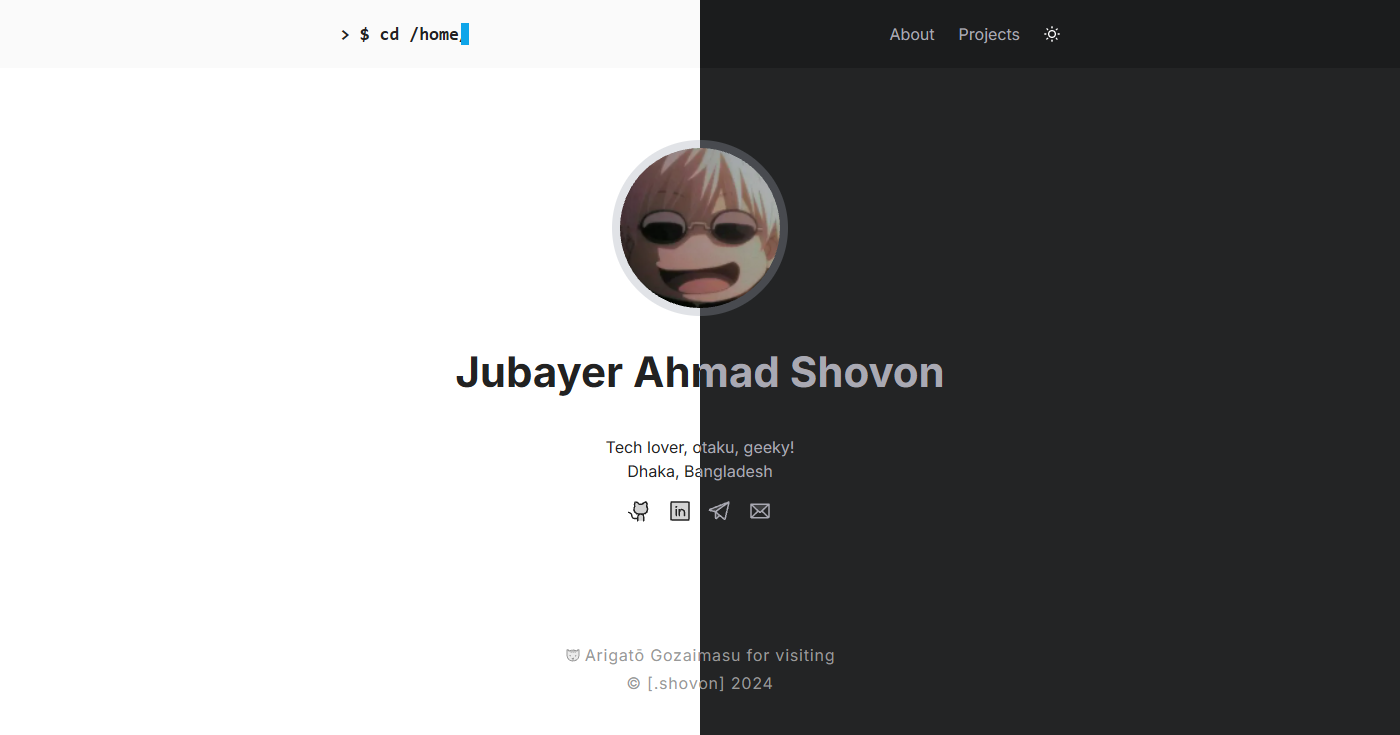
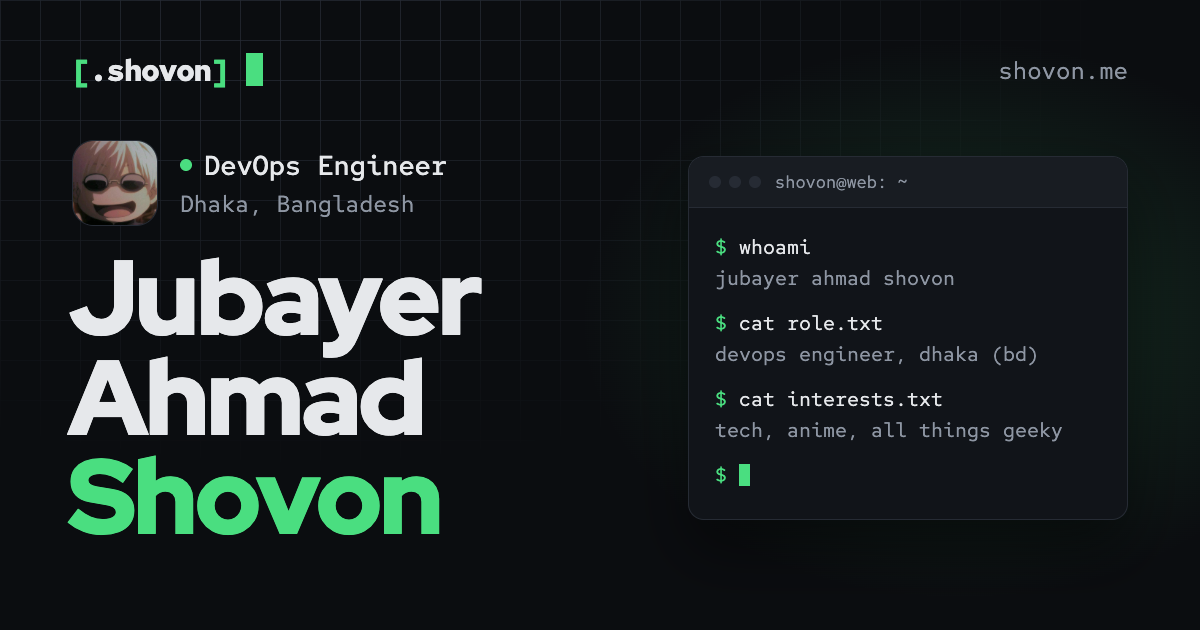
feat: replace the link preview image with a purpose-built card
The old image was a screenshot of the previous design. The new one is
a 1200x630 card in the current look: the [.shovon] mark, avatar, role
and location, the name with the green accent, and a terminal window.

It is rendered from design/og-image.html with headless Chrome; the
command is documented at the top of that file and in the README, so
the image can be regenerated after a design change.

diff --git a/design/og-image.html b/design/og-image.html
@@ -1,0 +1,228 @@
+<!doctype html>
+<!--
+  Source of src/assets/images/og-image.png, the 1200x630 image shown in link previews.
+
+  To regenerate it after editing this file, run a Chromium-based browser from the repository root:
+
+    chrome --headless --hide-scrollbars --window-size=1200,630 --virtual-time-budget=5000 \
+      --screenshot=src/assets/images/og-image.png design/og-image.html
+
+  The colors mirror the dark theme in src/styles/global.css.
+-->
+<html lang="en">
+  <head>
+    <meta charset="utf-8" />
+    <title>[.shovon] link preview image</title>
+    <link rel="stylesheet" href="https://fonts.googleapis.com/css2?family=Red+Hat+Display:wght@900&family=Red+Hat+Mono:wght@400;500;700&display=block" />
+    <style>
+      :root {
+        --bg: #0b0d10;
+        --surface: #111419;
+        --raised: #181c22;
+        --line: #262b34;
+        --fg: #e6e8eb;
+        --muted: #8e96a3;
+        --faint: #606774;
+        --accent: #4ade80;
+      }
+
+      * {
+        box-sizing: border-box;
+        margin: 0;
+      }
+
+      html,
+      body {
+        width: 1200px;
+        height: 630px;
+        overflow: hidden;
+      }
+
+      body {
+        position: relative;
+        background: var(--bg);
+        color: var(--fg);
+        font-family: 'Red Hat Mono', monospace;
+      }
+
+      .grid {
+        position: absolute;
+        inset: 0;
+        background-image:
+          linear-gradient(rgb(38 43 52 / 0.75) 1px, transparent 1px),
+          linear-gradient(90deg, rgb(38 43 52 / 0.75) 1px, transparent 1px);
+        background-size: 40px 40px;
+        mask-image: radial-gradient(ellipse 85% 95% at 25% 0%, #000 15%, transparent 78%);
+      }
+
+      .glow {
+        position: absolute;
+        top: 40px;
+        right: -140px;
+        width: 760px;
+        height: 560px;
+        background: radial-gradient(closest-side, rgb(74 222 128 / 0.17), transparent);
+      }
+
+      .accent {
+        color: var(--accent);
+      }
+
+      .caret {
+        display: inline-block;
+        width: 0.55em;
+        height: 1.1em;
+        background: var(--accent);
+        vertical-align: -0.18em;
+      }
+
+      .bar {
+        position: absolute;
+        top: 50px;
+        right: 72px;
+        left: 72px;
+        display: flex;
+        align-items: center;
+        justify-content: space-between;
+        font-size: 24px;
+        color: var(--muted);
+      }
+
+      .mark {
+        font-size: 30px;
+        font-weight: 700;
+        letter-spacing: -0.02em;
+        color: var(--fg);
+      }
+
+      .who {
+        position: absolute;
+        top: 140px;
+        left: 72px;
+        display: flex;
+        align-items: center;
+        gap: 22px;
+      }
+
+      .who img {
+        width: 86px;
+        height: 86px;
+        border: 1px solid var(--line);
+        border-radius: 22px;
+      }
+
+      .role {
+        display: flex;
+        align-items: center;
+        gap: 12px;
+        font-size: 27px;
+        font-weight: 500;
+      }
+
+      .role i {
+        width: 12px;
+        height: 12px;
+        border-radius: 50%;
+        background: var(--accent);
+      }
+
+      .place {
+        margin-top: 6px;
+        font-size: 23px;
+        color: var(--muted);
+      }
+
+      h1 {
+        position: absolute;
+        top: 248px;
+        left: 68px;
+        font: 900 106px/0.94 'Red Hat Display', sans-serif;
+        letter-spacing: -0.03em;
+      }
+
+      .terminal {
+        position: absolute;
+        top: 156px;
+        right: 72px;
+        width: 440px;
+        overflow: hidden;
+        border: 1px solid var(--line);
+        border-radius: 16px;
+        background: var(--surface);
+        box-shadow: 0 30px 60px rgb(0 0 0 / 0.45);
+      }
+
+      .terminal header {
+        display: flex;
+        align-items: center;
+        gap: 14px;
+        padding: 14px 20px;
+        border-bottom: 1px solid var(--line);
+        background: var(--raised);
+        font-size: 17px;
+        color: var(--muted);
+      }
+
+      .terminal header span {
+        display: flex;
+        gap: 8px;
+      }
+
+      .terminal header i {
+        width: 12px;
+        height: 12px;
+        border-radius: 50%;
+        background: var(--line);
+      }
+
+      .terminal div {
+        padding: 24px 26px 28px;
+        font-size: 20px;
+        line-height: 1.55;
+      }
+
+      .terminal p + p.cmd {
+        margin-top: 14px;
+      }
+
+      .terminal p:not(.cmd) {
+        color: var(--muted);
+      }
+    </style>
+  </head>
+  <body>
+    <div class="grid"></div>
+    <div class="glow"></div>
+
+    <div class="bar">
+      <span class="mark"><span class="accent">[</span>.shovon<span class="accent">]</span> <span class="caret"></span></span>
+      <span>shovon.me</span>
+    </div>
+
+    <div class="who">
+      <img src="../src/assets/images/61104583.jpg" alt="" />
+      <div>
+        <p class="role"><i></i>DevOps Engineer</p>
+        <p class="place">Dhaka, Bangladesh</p>
+      </div>
+    </div>
+
+    <h1>Jubayer<br />Ahmad<br /><span class="accent">Shovon</span></h1>
+
+    <section class="terminal">
+      <header>
+        <span><i></i><i></i><i></i></span>
+        shovon@web: ~
+      </header>
+      <div>
+        <p class="cmd"><span class="accent">$</span> whoami</p>
+        <p>jubayer ahmad shovon</p>
+        <p class="cmd"><span class="accent">$</span> cat role.txt</p>
+        <p>devops engineer, dhaka (bd)</p>
+        <p class="cmd"><span class="accent">$</span> cat interests.txt</p>
+        <p>tech, anime, all things geeky</p>
+        <p class="cmd"><span class="accent">$</span> <span class="caret"></span></p>
+      </div>
+    </section>
+  </body>
+</html>

diff --git a/README.md b/README.md
@@ -9,7 +9,7 @@ npm run dev
 
 Open [http://localhost:7000](http://localhost:7000) with your browser to see the result. If the port is taken, Astro picks the next free one and prints it.
 
-Pages live in `src/pages`, shared markup in `src/layouts` and `src/components`, and icons in `src/icons` as plain SVG files that are imported as components. Projects and social links are listed in `src/data`. Colors for both themes are CSS variables in `src/styles/global.css`.
+Pages live in `src/pages`, shared markup in `src/layouts` and `src/components`, and icons in `src/icons` as plain SVG files that are imported as components. Projects and social links are listed in `src/data`. Colors for both themes are CSS variables in `src/styles/global.css`. The link preview image is rendered from `design/og-image.html`; the command to regenerate it is at the top of that file.
 
 ## Scripts
 
